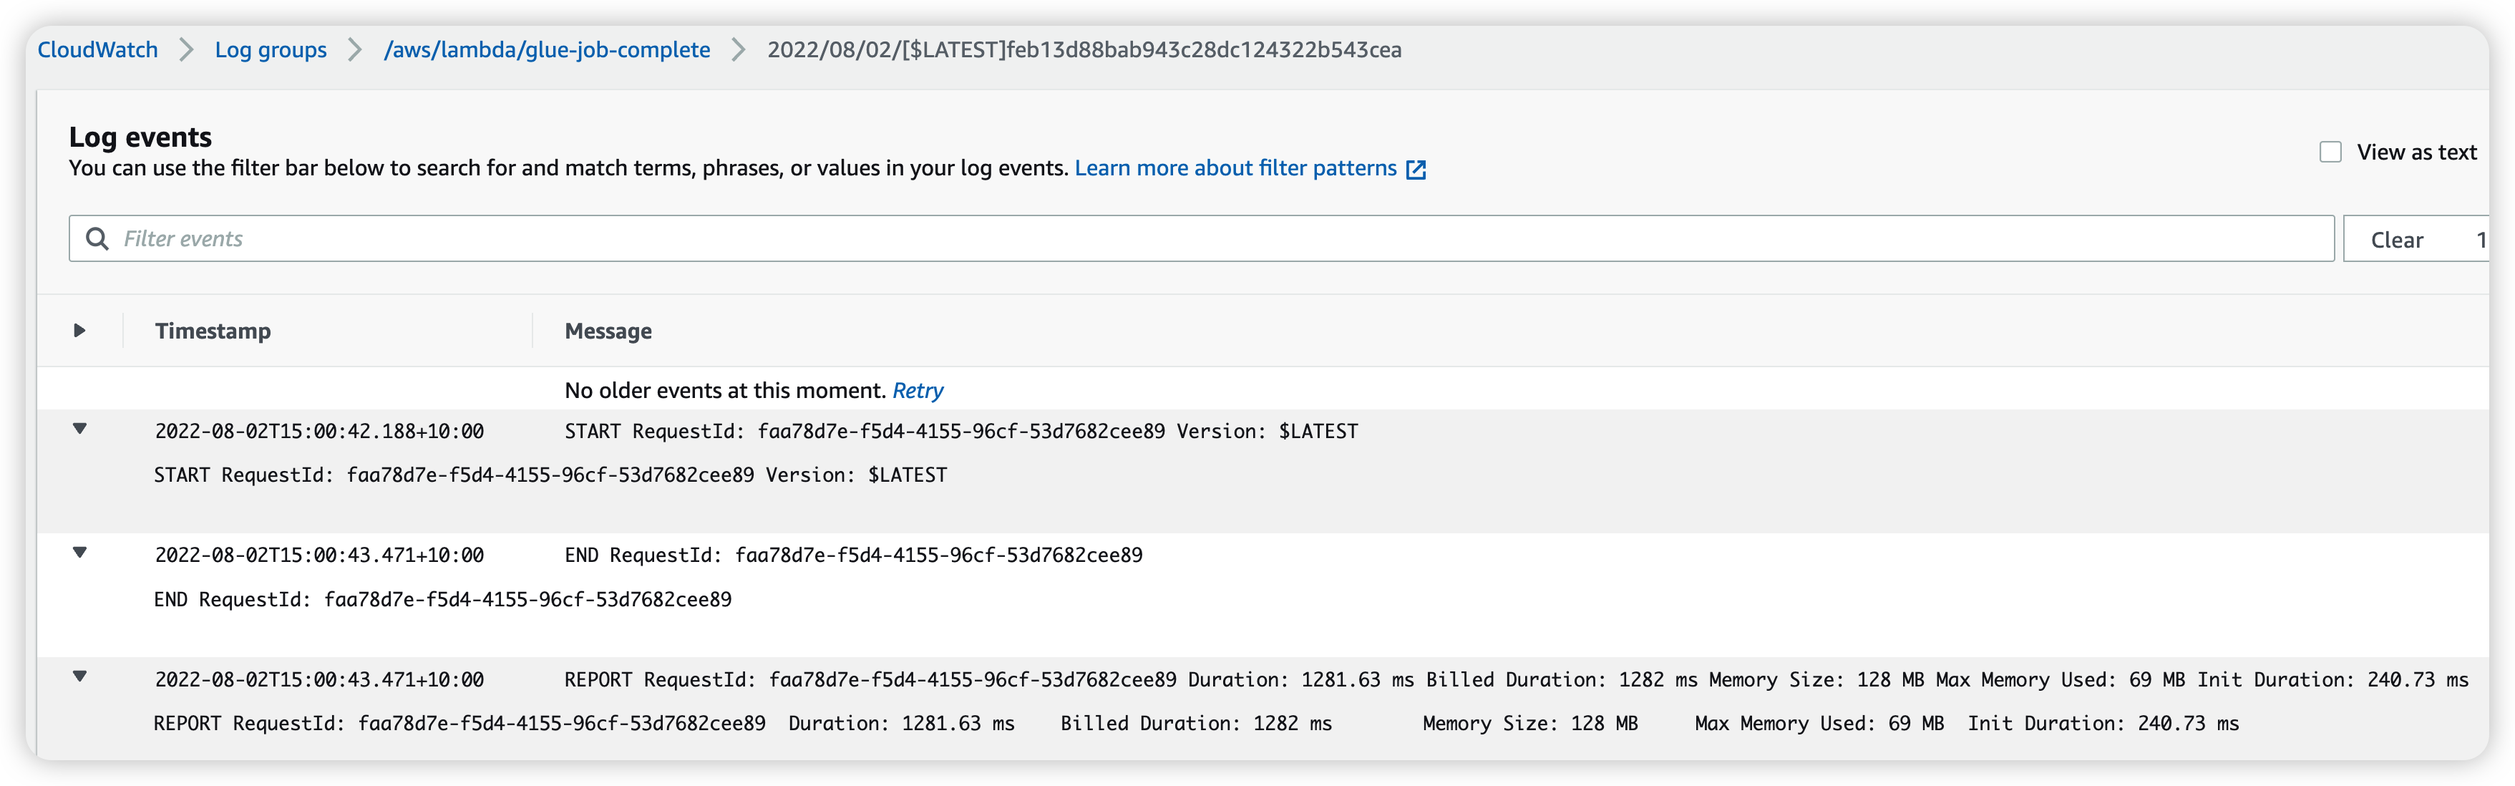
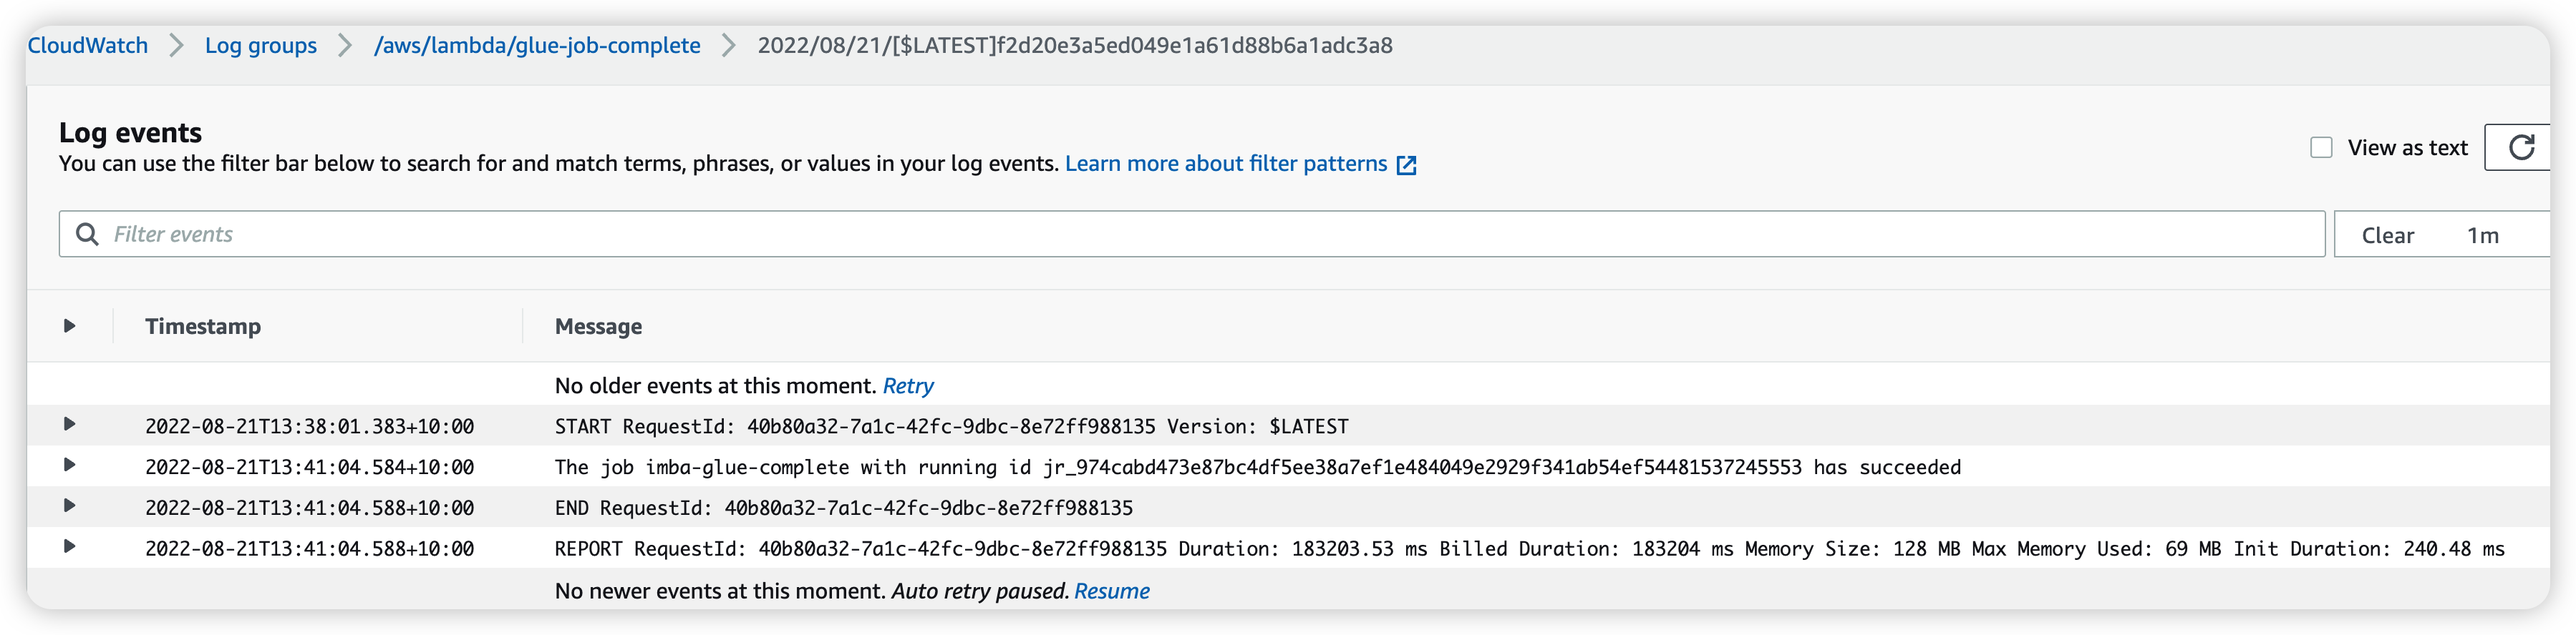
refine glue job lambda

diff --git a/5_Lambda_Glue_jobs/README.md b/5_Lambda_Glue_jobs/README.md
@@ -45,6 +45,7 @@ The lambda function is as following:
 import json
 import boto3
 import os
+import time
 
 def lambda_handler(event, context):
     job_name = os.environ['JOB_NM']
@@ -53,8 +54,23 @@ def lambda_handler(event, context):
         reponse = client.start_job_run(
             JobName=job_name
         )
+        job_run_id = reponse['JobRunId']
+            # Retrieve metadata from the job run and wait until success
+        while True:
+            time.sleep(10)
+            reponse2 = client.get_job_run(
+                JobName=job_name,
+                RunId=job_run_id
+            )
+            if reponse2['JobRun']['JobRunState'] == 'SUCCEEDED':
+                print('The job ', job_name, 'with running id ', job_run_id, 'has succeeded')
+                break
+            elif reponse2['JobRun']['JobRunState'] == 'FAILED':
+                print('The job ', job_name, 'with running id ', job_run_id, 'has failed. Please check!')
+                break
     except:
         print("The job ",job_name, " has failed, please check")
+
     return reponse
 ```
 Set the environment variable to be the glue job name. The schedule rule is also created:
